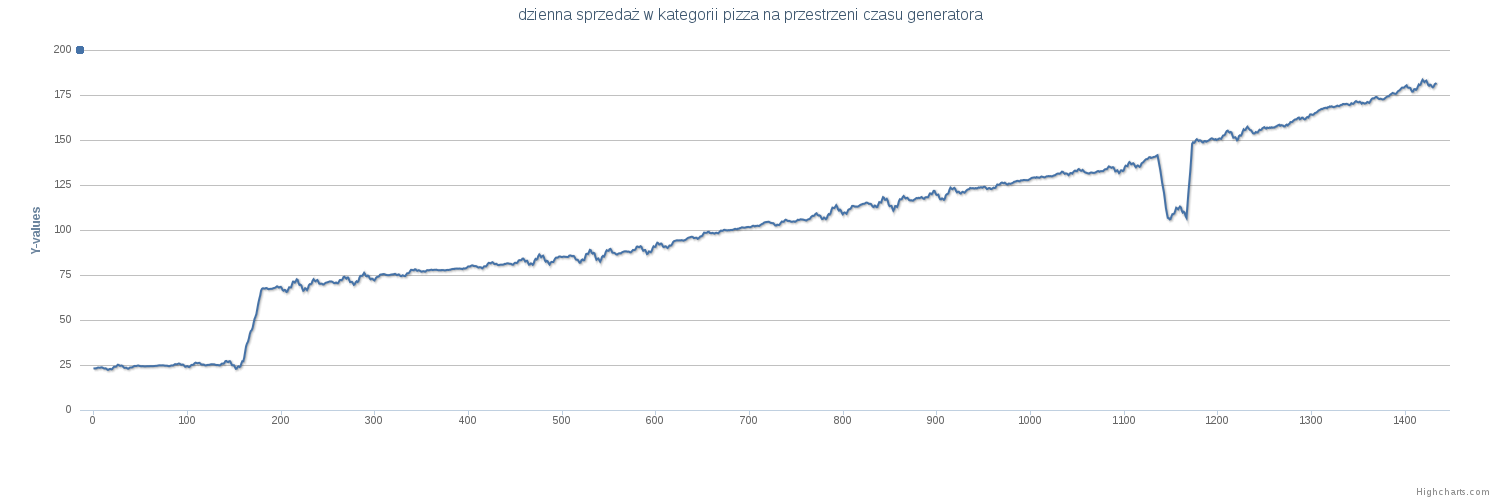
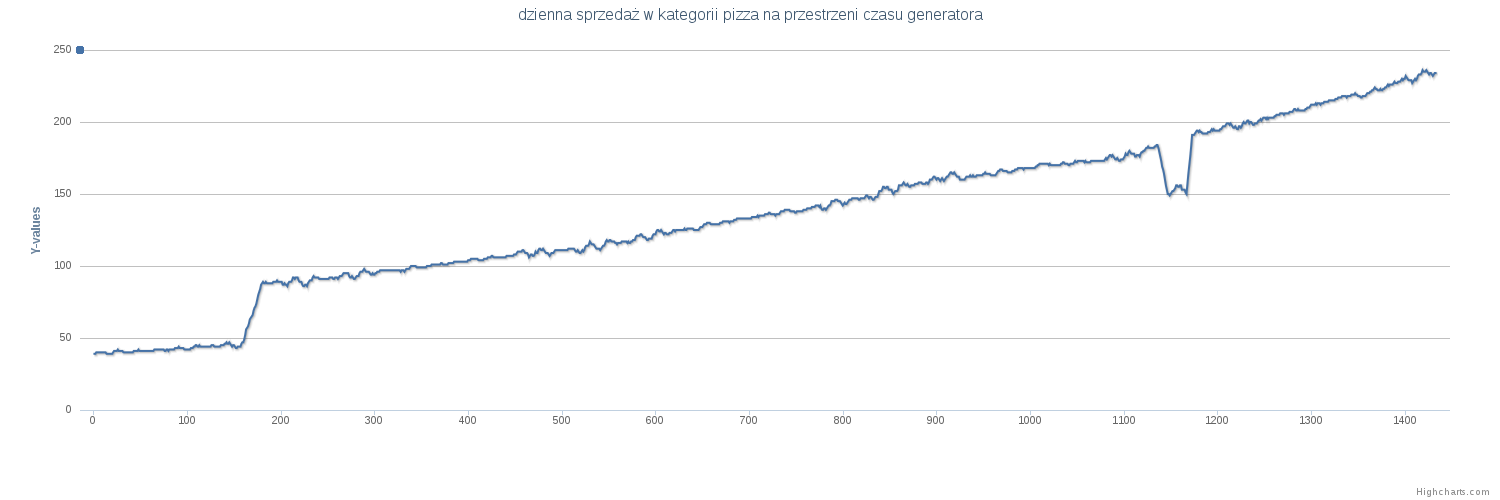
generowanie zamówień, jeszce konkretnych pozycji nie ma!

diff --git a/Data.js b/Data.js
@@ -95,7 +95,7 @@
     }
   };
 
-  dania = [['Margerita', 24, 400, c.pizza], ['Capricciosa', 23, 400, c.pizza], ['Fungi', 23, 400, c.pizza], ['Wiejska', 23, 400, c.pizza], ['herbata', 6, 400, c.napoje], ['kawa', 8, 300, c.napoje], ['oscypek z żurawiną', 32, 130, c.przekaski], ['Tatar z łososia norweskiego na ogórkowym carpaccio', 24, 150, c.przystZimne], ['Balsamiczne polędwiczki drobiowe na sałatce z melonem i sosem curry', 19, 150, c.przystZimne], ['Ruloniki orzechowej ricotty w płatkach wołowiny', 24, 100, c.przystZimne], ['Tatar wołowy drobno siekany w towarzystwie grzybka i ogórka', 28, 200, c.przystZimne], ['Carpaccio wołowe pod pierzynką rukolą i parmezanu', 25, 150, c.przystZimne], ['Wykwintne scampi w oliwie z oliwek z czosnkiem i peperoncino', 31, 100, c.przystGorace], ['Grzanka francuska z wątróbką i borowikami', 14, 120, c.przystGorace], ['Krewetki królewskie w szynce parmeńskiej', 29, 100, c.przystGorace], ['Consome drobiowe z warzywnym julienne', 8, 400, c.zupy], ['Krem kalafiorowo-brokułowy', 10, 400, c.zupy], ['Prowansalska zupa rybna', 17, 400, c.zupy], ['Krem z dyni w aromacie gałki muszkatołowej', 9, 300, c.zupy], ['Krem z leśnych grzybów zapiekany z ciastem francuskim', 18, 400, c.zupy], ['Krem pomidorowy z delikatną mozzarellą', 11, 300, c.zupy], ['Zupa pomidorowa z fikuśnym makaronikiem', 6, 200, c.zupy], ['Rosół z lanymi kluseczkami', 6, 200, c.zupy], ['Conchiglioni z borowikami i szpinakiem w pomidorach', 28, 400, c.makarony], ['Fusilli avelinesi z trzema serami i orzechami włoskimi', 25, 350, c.makarony], ['Tagliatelle z wędzonym łososiem', 24, 350, c.makarony], ['Spaghetti z czosnkiem papryczką peperoncino i zieloną pietruszką', 20, 350, c.makarony], ['Pappardelle ze szpinakiem i borowikami', 26, 300, c.makarony], ['Spaghetti z frutti di mare w oliwie z oliwek', 33, 400, c.makarony], ['Grillowany stek wołowy podany z cukiniami i opiekanymi ziemniaczkami', 53, 400, c.glowne], ['Pierś kurczęca z suszonym pomidorkiem w parmeńskim płaszczyku w sosie gorgonzola podane z kopytkami', 36, 400, c.glowne], ['Polędwiczki wieprzowe z faszerowanym pomidorkiem w sosie gorczycowym z ziemniaczkami drążonymi', 38, 350, c.glowne], ['Skoki królicze z rulonikiem ziemniaczano – bekonowym i buraczkami zasmażanymi', 41, 330, c.glowne], ['Marynowana pierś kacza z pierożkami gryczanymi i buraczkami', 40, 380, c.glowne], ['Duet łososia i halibuta zawijany liść kapusty włoskiej z warzywnym risotto', 39, 320, c.glowne], ['Filet z sandacza na warzywnym julienne w aksamitnym sosie czsnkowym z ziemniaczkami', 41, 310, c.glowne], ['T-Bone steak z warzywamii z grilla i opiekanymi ziemniaczkami', 68, 320, c.glowne], ['Kęski kurczaka w chrupiącej panierce z frytkami i surówka wiosenną', 18, 200, c.glowne], ['Naleśniki z serem i owocami', 15, 200, c.glowne], ['Pierożki własnej roboty  z jagodami', 18, 200, c.glowne], ['Aksamitny torcik "monte bianco"', 15, 100, c.desery], ['Tarta tatin na lustrze sosu karmelowego z lodami waniliowymi', 14, 100, c.desery], ['Torcik czekoladowo-miętowy z łezką sosu truskawkowego', 14, 100, c.desery], ['Krem Brulee', 14, 100, c.desery], ['Panna Cotta z aksamitnym musem owocowym', 14, 90, c.desery], ['Carpaccio z pomarańczy (lub innych owoców sezonowych) skropione nutą słodyczy', 10, 100, c.desery], ['Deser lodowy', 10, 90, c.desery], ['Sałatka Cezara', 26, 180, c.salatki], ['Sałatka grecka', 23, 180, c.salatki], ['Sałatka z mozzarellą, pomidorkami i bazylią zakrapiana salsą verde', 18, 150, c.salatki], ['Bakłażan zapiekany nazłoto z mozzarellą i pomidorkami suszonymi serwowany na rucoli', 26, 200, c.salatki]];
+  dania = [['Piwo jasne', 7, 350, c.alkohole], ['Piwo ciemne', 7, 350, c.alkohole], ['Wódka czysta', 14, 100, c.alkohole], ['Wino wytrawne czerwone', 18, 150, c.alkohole], ['Wino wytrawne białe', 18, 150, c.alkohole], ['Wino słodkie białe', 21, 150, c.alkohole], ['Margerita', 24, 400, c.pizza], ['Capricciosa', 23, 400, c.pizza], ['Fungi', 23, 400, c.pizza], ['Wiejska', 23, 400, c.pizza], ['herbata', 6, 400, c.napoje], ['kawa', 8, 300, c.napoje], ['oscypek z żurawiną', 32, 130, c.przekaski], ['Tatar z łososia norweskiego na ogórkowym carpaccio', 24, 150, c.przystZimne], ['Balsamiczne polędwiczki drobiowe na sałatce z melonem i sosem curry', 19, 150, c.przystZimne], ['Ruloniki orzechowej ricotty w płatkach wołowiny', 24, 100, c.przystZimne], ['Tatar wołowy drobno siekany w towarzystwie grzybka i ogórka', 28, 200, c.przystZimne], ['Carpaccio wołowe pod pierzynką rukolą i parmezanu', 25, 150, c.przystZimne], ['Wykwintne scampi w oliwie z oliwek z czosnkiem i peperoncino', 31, 100, c.przystGorace], ['Grzanka francuska z wątróbką i borowikami', 14, 120, c.przystGorace], ['Krewetki królewskie w szynce parmeńskiej', 29, 100, c.przystGorace], ['Consome drobiowe z warzywnym julienne', 8, 400, c.zupy], ['Krem kalafiorowo-brokułowy', 10, 400, c.zupy], ['Prowansalska zupa rybna', 17, 400, c.zupy], ['Krem z dyni w aromacie gałki muszkatołowej', 9, 300, c.zupy], ['Krem z leśnych grzybów zapiekany z ciastem francuskim', 18, 400, c.zupy], ['Krem pomidorowy z delikatną mozzarellą', 11, 300, c.zupy], ['Zupa pomidorowa z fikuśnym makaronikiem', 6, 200, c.zupy], ['Rosół z lanymi kluseczkami', 6, 200, c.zupy], ['Conchiglioni z borowikami i szpinakiem w pomidorach', 28, 400, c.makarony], ['Fusilli avelinesi z trzema serami i orzechami włoskimi', 25, 350, c.makarony], ['Tagliatelle z wędzonym łososiem', 24, 350, c.makarony], ['Spaghetti z czosnkiem papryczką peperoncino i zieloną pietruszką', 20, 350, c.makarony], ['Pappardelle ze szpinakiem i borowikami', 26, 300, c.makarony], ['Spaghetti z frutti di mare w oliwie z oliwek', 33, 400, c.makarony], ['Grillowany stek wołowy podany z cukiniami i opiekanymi ziemniaczkami', 53, 400, c.glowne], ['Pierś kurczęca z suszonym pomidorkiem w parmeńskim płaszczyku w sosie gorgonzola podane z kopytkami', 36, 400, c.glowne], ['Polędwiczki wieprzowe z faszerowanym pomidorkiem w sosie gorczycowym z ziemniaczkami drążonymi', 38, 350, c.glowne], ['Skoki królicze z rulonikiem ziemniaczano – bekonowym i buraczkami zasmażanymi', 41, 330, c.glowne], ['Marynowana pierś kacza z pierożkami gryczanymi i buraczkami', 40, 380, c.glowne], ['Duet łososia i halibuta zawijany liść kapusty włoskiej z warzywnym risotto', 39, 320, c.glowne], ['Filet z sandacza na warzywnym julienne w aksamitnym sosie czsnkowym z ziemniaczkami', 41, 310, c.glowne], ['T-Bone steak z warzywamii z grilla i opiekanymi ziemniaczkami', 68, 320, c.glowne], ['Kęski kurczaka w chrupiącej panierce z frytkami i surówka wiosenną', 18, 200, c.glowne], ['Naleśniki z serem i owocami', 15, 200, c.glowne], ['Pierożki własnej roboty  z jagodami', 18, 200, c.glowne], ['Aksamitny torcik "monte bianco"', 15, 100, c.desery], ['Tarta tatin na lustrze sosu karmelowego z lodami waniliowymi', 14, 100, c.desery], ['Torcik czekoladowo-miętowy z łezką sosu truskawkowego', 14, 100, c.desery], ['Krem Brulee', 14, 100, c.desery], ['Panna Cotta z aksamitnym musem owocowym', 14, 90, c.desery], ['Carpaccio z pomarańczy (lub innych owoców sezonowych) skropione nutą słodyczy', 10, 100, c.desery], ['Deser lodowy', 10, 90, c.desery], ['Sałatka Cezara', 26, 180, c.salatki], ['Sałatka grecka', 23, 180, c.salatki], ['Sałatka z mozzarellą, pomidorkami i bazylią zakrapiana salsą verde', 18, 150, c.salatki], ['Bakłażan zapiekany nazłoto z mozzarellą i pomidorkami suszonymi serwowany na rucoli', 26, 200, c.salatki]];
 
   /*
       PUBLIC EXPORT

diff --git a/SimImpl.js b/SimImpl.js
@@ -1,12 +1,10 @@
 // Generated by CoffeeScript 1.6.3
 (function() {
-  var Kategoria, Utils, config, erd, generateDailyOrders, mscPerDay, orders, print, restaurant, restaurantConfig, simChange, simDay, simulation, swing, test, testCategory;
+  var Kategoria, Utils, config, erd, generateDailyOrders, mscPerDay, print, restaurant, restaurantConfig, simChange, simDay, swing, testCategory;
 
   print = console.log;
 
   Utils = require('./Utils.js');
-
-  simulation = [];
 
   mscPerDay = 1000 * 60 * 60 * 24;
 
@@ -22,11 +20,7 @@
 
   restaurant = void 0;
 
-  test = [];
-
   testCategory = void 0;
-
-  orders = [];
 
   exports.init = function(_config, _erd, _restaurant) {
     erd = _erd;
@@ -34,7 +28,6 @@
     Kategoria = erd.Kategoria;
     restaurantConfig = config.erd.restaurant;
     swing = restaurantConfig.swing;
-    test = [];
     restaurant = _restaurant;
     return testCategory = Kategoria.filter(function(kat) {
       return kat.id === 'pizza';
@@ -88,7 +81,6 @@
 
   exports.simRange = function(range, erd, config) {
     var currentDate, numDays, rangeEnd;
-    console.log("symulowanie rangi:", range.toString());
     rangeEnd = range.to;
     currentDate = new Date(range.from);
     numDays = 0;
@@ -104,7 +96,6 @@
 
   simChange = function(change) {
     var kategoria, _i, _len, _results;
-    console.log("sim change: " + (change.when.toDayString()) + " " + change.category);
     _results = [];
     for (_i = 0, _len = Kategoria.length; _i < _len; _i++) {
       kategoria = Kategoria[_i];
@@ -129,12 +120,11 @@
         numSales: Math.floor(kategoria.dailySale)
       });
     }
-    return generateDailyOrders(date, Kategoria[0].daySales.length - 1, orders);
+    return generateDailyOrders(date, Kategoria[0].daySales.length - 1);
   };
 
-  generateDailyOrders = function(date, daySalesIndex, pushTo) {
-    var DailyOrder, avgOrderSize, dailyOrder, dodajDanieDoZamowienia, genTime, i, kategoria, makeDuration, numOrders, orderTime, remainingSales, restaurantClose, restaurantOpen, sumSales, wybierzJakiesDanie, _i, _j, _len, _results;
-    print("generate daily orders: " + (date.toDayString()));
+  generateDailyOrders = function(date, daySalesIndex) {
+    var DailyOrder, avgOrderSize, c, dailyOrder, dodajDanieDoZamowienia, genTime, i, id, iloscDodanychDan, kategoria, makeDuration, numOrders, orderTime, poz, pozycjeTab, remainingSales, restaurantClose, restaurantOpen, sumSales, wybierzJakiesDanie, _i, _j, _k, _len, _len1, _ref, _results;
     remainingSales = (function() {
       var _i, _len, _results;
       _results = [];
@@ -173,7 +163,17 @@
         kelner: Utils.random.arrayItem(restaurant.kelnerzy),
         numer_stolika: Utils.random.integer(restaurant.liczba_miejsc),
         platnosc: Utils.random.arrayItem(config.erd.payments),
-        pozycje: {}
+        pozycje: {},
+        toString: function() {
+          var key, poz, str, _ref;
+          str = this.data_platnosci.toTimeString() + (" odebrane przez: " + this.kelner.imie + " " + this.kelner.nazwisko);
+          _ref = this.pozycje;
+          for (key in _ref) {
+            poz = _ref[key];
+            str += "\n\t- " + poz.danie.nazwa + ": " + poz.porcja;
+          }
+          return str;
+        }
       };
       DailyOrder.push(dailyOrder);
     }
@@ -186,11 +186,13 @@
       }
       return 0;
     });
+    iloscDodanychDan = 0;
     dodajDanieDoZamowienia = function(danie, zamowienie) {
       var id;
+      iloscDodanychDan++;
       id = danie.id;
-      if (zamowienie.pozycje.hasOwnProperty(id)) {
-        return zamowienie.pozycje.ilosc++;
+      if (zamowienie.pozycje[id] != null) {
+        return zamowienie.pozycje[id].porcja++;
       } else {
         return zamowienie.pozycje[id] = {
           danie: danie,
@@ -204,17 +206,34 @@
       var chosenCategory, chosenDish;
       chosenCategory = Utils.random.arrayItem(remainingSales);
       chosenDish = Utils.random.arrayItem(chosenCategory.kategoria.dania);
+      chosenCategory.numSales--;
       if (chosenCategory.numSales === 0) {
         Utils.array.removeUnordered(remainingSales, chosenCategory);
       }
-      print(chosenCategory.kategoria.dania);
-      print(chosenCategory.kategoria.nazwa);
       return chosenDish;
     };
-    _results = [];
     for (_j = 0, _len = DailyOrder.length; _j < _len; _j++) {
       dailyOrder = DailyOrder[_j];
-      _results.push(dodajDanieDoZamowienia(wybierzJakiesDanie(), dailyOrder));
+      dodajDanieDoZamowienia(wybierzJakiesDanie(), dailyOrder);
+    }
+    while (remainingSales.length) {
+      dodajDanieDoZamowienia(wybierzJakiesDanie(), Utils.random.arrayItem(DailyOrder));
+    }
+    _results = [];
+    for (_k = 0, _len1 = DailyOrder.length; _k < _len1; _k++) {
+      dailyOrder = DailyOrder[_k];
+      erd.Zamowienie.push(dailyOrder);
+      pozycjeTab = [];
+      c = 0;
+      _ref = dailyOrder.pozycje;
+      for (id in _ref) {
+        poz = _ref[id];
+        pozycjeTab.push(poz);
+        erd.ZamowienieProdukt.push(poz);
+        poz.nr = c;
+        c++;
+      }
+      _results.push(dailyOrder.pozycje = pozycjeTab);
     }
     return _results;
   };

diff --git a/Utils.js b/Utils.js
@@ -15,6 +15,19 @@
     return "" + (this.getFullYear()) + "-" + m + "-" + d;
   };
 
+  Date.prototype.toTimeString = function() {
+    var hh, mm;
+    hh = this.getHours();
+    if (hh < 10) {
+      hh = "0" + hh;
+    }
+    mm = this.getMinutes();
+    if (mm < 10) {
+      mm = "0" + mm;
+    }
+    return "" + hh + ":" + mm;
+  };
+
   dateUtils = require('date-utils');
 
   compare = function(a, b) {

diff --git a/Generator.js b/Generator.js
@@ -93,6 +93,10 @@
 
   simulator.simulate(config, ERD);
 
+  console.log("Zamowienie:", Zamowienie.length);
+
+  console.log("ZamowienieProdukt:", ZamowienieProdukt.length);
+
   presenter = require('./Presenter.js');
 
   presenter.writeSQL(ERD);

diff --git a/config.js b/config.js
@@ -15,7 +15,7 @@
         closeTime: [19, 22],
         minCapacity: 22,
         maxCapacity: 82,
-        avgOrderSize: 4,
+        avgOrderSize: 3,
         minWaitMinutes: 5,
         maxWaitMinutes: 12,
         initialSalesRatio: 0.56,
